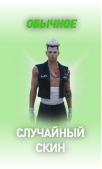
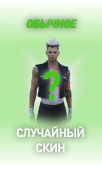
add roulette items generating, edit images

Changed region(s): [[0.3824, 0.3846, 0.6471, 0.5917], [0.9706, 0.0592, 1.0, 0.9467]]

diff --git a/src/main/java/com/liverussia/service/impl/RouletteServiceImpl.java b/src/main/java/com/liverussia/service/impl/RouletteServiceImpl.java
@@ -1,6 +1,16 @@
 package com.liverussia.service.impl;
 
-import com.liverussia.dao.entity.user.User;
+import com.liverussia.dao.entity.roulette.compositeItem.CompositeElementType;
+import com.liverussia.dao.entity.roulette.compositeItem.CompositeItemData;
+import com.liverussia.dao.entity.roulette.compositeItem.CompositeItems;
+import com.liverussia.dao.entity.roulette.item.Category;
+import com.liverussia.dao.entity.roulette.item.RouletteItem;
+import com.liverussia.dao.entity.roulette.item.RouletteItemType;
+import com.liverussia.dao.entity.roulette.rangeItem.RangeItemData;
+import com.liverussia.dao.entity.roulette.singleItem.SingleItemData;
+import com.liverussia.dao.repository.CategoryRepository;
+import com.liverussia.dao.repository.CompositeItemsRepository;
+import com.liverussia.dao.repository.RouletteItemRepository;
 import com.liverussia.domain.JwtUser;
 import com.liverussia.dto.response.PrizeInfoResponseDto;
 import com.liverussia.dto.response.SpinRouletteResponseDto;
@@ -15,9 +25,10 @@ import org.apache.commons.lang3.StringUtils;
 import org.springframework.beans.factory.annotation.Value;
 import org.springframework.stereotype.Service;
 
-import java.util.ArrayList;
-import java.util.List;
-import java.util.Optional;
+import java.math.BigDecimal;
+import java.util.*;
+import java.util.stream.Collectors;
+import java.util.stream.LongStream;
 
 @Service
 @RequiredArgsConstructor
@@ -27,7 +38,15 @@ public class RouletteServiceImpl implements RouletteService {
     private final static String ROULETTE_ITEMS_DIRECTORY = "roulette_items/";
     private final static String PRIZES_INFO_DIRECTORY = "prizes_info/";
 
+    private final static long ZERO = 0L;
+    private final static long ZERO_PROBABILITY = 0L;
+    private final static long ONE_HUNDRED_PERCENT = 100;
+    private final static int COUNT_ITEM_BEFORE_PRIZE = 2;
+
     private final UserService userService;
+    private final RouletteItemRepository rouletteItemRepository;
+    private final CompositeItemsRepository compositeItemsRepository;
+    private final CategoryRepository categoryRepository;
 
     @Value("${android.roulette.spinCost}")
     private Integer spinCost;
@@ -44,16 +63,197 @@ public class RouletteServiceImpl implements RouletteService {
 
     @Override
     public SpinRouletteResponseDto spinRoulette(JwtUser jwtUser) {
+        checkUser(jwtUser);
 
+        List<RouletteItem> rouletteItems = getRouletteItems();
+
+        SpinRouletteResponseDto response = buildRouletteResponseDto(jwtUser);
+        response.setBase64Images(getRouletteItemsImages(rouletteItems));
+        addPrizeToResponseAndSave(response, rouletteItems);
+
+        return response;
+    }
+
+    private void addPrizeToResponseAndSave(SpinRouletteResponseDto response, List<RouletteItem> rouletteItems) {
+        RouletteItem prizeItem = rouletteItems.get(rouletteItems.size() - COUNT_ITEM_BEFORE_PRIZE);
+
+        if (RouletteItemType.SINGLE.equals(prizeItem.getType())) {
+            handleSingleType(response, prizeItem);
+        }
+
+        if (RouletteItemType.RANGE.equals(prizeItem.getType())) {
+            handleRangeType(response, prizeItem);
+        }
+
+        if (RouletteItemType.COMPOSITE.equals(prizeItem.getType())) {
+            handleCompositeType(response, prizeItem);
+        }
+    }
+
+    private void handleCompositeType(SpinRouletteResponseDto response, RouletteItem rouletteItem) {
+        CompositeItemData compositeItemData = rouletteItem.getCompositeItemData();
+        CompositeItems compositeItem = getCompositeItem(compositeItemData);
+
+        String base64PrizeImage = getCompositePrizeImage(compositeItem);
+        PrizeInfoResponseDto prizeInfo = new PrizeInfoResponseDto();
+        prizeInfo.setBase64Image(base64PrizeImage);
+
+//        saveCompositeToDb(compositeItem);
+
+        response.setPrizeInfo(prizeInfo);
+    }
+
+    private String getCompositePrizeImage(CompositeItems compositeItem) {
+        String path = uploadPath.concat(PRIZES_INFO_DIRECTORY);
+
+        return Optional.ofNullable(compositeItem)
+                .map(CompositeItems::getImageFileName)
+                .map(path::concat)
+                .map(Base64Converter::encodeFileToBase64)
+                .orElse(StringUtils.EMPTY);
+    }
+
+    private CompositeItems getCompositeItem(CompositeItemData compositeItemData) {
+        List<CompositeItems> compositeItems = compositeItemsRepository.findAllByType(compositeItemData.getType());
+
+        Random rand = new Random();
+        int index = rand.nextInt(compositeItems.size());
+
+        return compositeItems.get(index);
+    }
+
+    private void handleRangeType(SpinRouletteResponseDto response, RouletteItem rouletteItem) {
+        String base64PrizeImage = getRangePrizeImage(rouletteItem);
+        String rangeRandomValue = getRangeRandomValue(rouletteItem);
+
+        PrizeInfoResponseDto prizeInfo = new PrizeInfoResponseDto();
+        prizeInfo.setBase64Image(base64PrizeImage);
+        prizeInfo.setAdditionalInfo(rangeRandomValue);
+
+        response.setPrizeInfo(prizeInfo);
+
+//        saveToDb(prizeInfo, rangeRandomValue);
+    }
+
+    private String getRangeRandomValue(RouletteItem rouletteItem) {
+        RangeItemData rangeItemData = rouletteItem.getRangeItemData();
+        Long start = rangeItemData.getRangeStart();
+        Long end = rangeItemData.getRangeEnd();
+
+        long value = start + (long) (Math.random() * (end - start));
+
+        return Long.toString(value);
+    }
+
+    private String getRangePrizeImage(RouletteItem rouletteItem) {
+        String path = uploadPath.concat(PRIZES_INFO_DIRECTORY);
+
+        return Optional.ofNullable(rouletteItem)
+                .map(RouletteItem::getRangeItemData)
+                .map(RangeItemData::getPrizeImageFileName)
+                .map(path::concat)
+                .map(Base64Converter::encodeFileToBase64)
+                .orElse(StringUtils.EMPTY);
+    }
+
+    private void handleSingleType(SpinRouletteResponseDto response, RouletteItem rouletteItem) {
+        String base64PrizeImage = getSinglePrizeImage(rouletteItem);
+        PrizeInfoResponseDto prizeInfo = new PrizeInfoResponseDto();
+        prizeInfo.setBase64Image(base64PrizeImage);
+        response.setPrizeInfo(prizeInfo);
+
+//        saveToDb(prizeInfo);
+    }
+
+    private String getSinglePrizeImage(RouletteItem rouletteItem) {
+        String path = uploadPath.concat(PRIZES_INFO_DIRECTORY);
+
+        return Optional.ofNullable(rouletteItem)
+                .map(RouletteItem::getSingleItemData)
+                .map(SingleItemData::getPrizeImageFileName)
+                .map(path::concat)
+                .map(Base64Converter::encodeFileToBase64)
+                .orElse(StringUtils.EMPTY);
+    }
+
+    private List<String> getRouletteItemsImages(List<RouletteItem> rouletteItems) {
+        String path = uploadPath.concat(ROULETTE_ITEMS_DIRECTORY);
+
+        return Optional.ofNullable(rouletteItems)
+                .orElse(Collections.emptyList())
+                .stream()
+                .map(RouletteItem::getImageFileName)
+                .map(path::concat)
+                .map(Base64Converter::encodeFileToBase64)
+                .collect(Collectors.toList());
+    }
+
+    private List<RouletteItem> getRouletteItems() {
+
+        List<RouletteItem> rouletteItems = new ArrayList<>();
+
+        List<Category> categories = categoryRepository.findAll();
+
+        Optional.of(categories)
+                .orElse(Collections.emptyList())
+                .forEach(category -> addItemsByCategory(category, rouletteItems));
+
+//        Optional.of(existRouletteItems)
+//                .orElse(Collections.emptyList())
+//                .forEach(item -> addNeedCountsItems(rouletteItems, item));
+
+        Collections.shuffle(rouletteItems);
+        Collections.shuffle(rouletteItems);
+
+        return rouletteItems;
+
+    }
+
+    private void addItemsByCategory(Category category, List<RouletteItem> rouletteItems) {
+        List<RouletteItem> rouletteItemsByCategory = rouletteItemRepository.findAllByCategoryId(category.getId());
+        long residualCount = getItemCount(category);
+
+        for (int i = 0; i < rouletteItemsByCategory.size(); i++) {
+            if (residualCount == 0L) {
+                break;
+            }
+
+            long value;
+
+            if (i == rouletteItemsByCategory.size() - 1) {
+                value = residualCount;
+            } else {
+                value = (long) (Math.random() * residualCount);
+            }
+
+            residualCount -= value;
+
+            addNeedCountsItems(rouletteItems, rouletteItemsByCategory.get(i), value);
+        }
+    }
+
+    private void addNeedCountsItems(List<RouletteItem> rouletteItems, RouletteItem item, long itemCount) {
+        LongStream.range(ZERO, itemCount)
+                .forEach(index -> rouletteItems.add(item));
+    }
+
+    private long getItemCount(Category category) {
+        long probability = getProbability(category);
+        return countElementsInOneSpin / ONE_HUNDRED_PERCENT * probability;
+    }
+
+    private long getProbability(Category category) {
+        return Optional.ofNullable(category)
+                .map(Category::getPercentProbability)
+                .orElse(ZERO_PROBABILITY);
+    }
+
+    private void checkUser(JwtUser jwtUser) {
         Optional.ofNullable(jwtUser)
                 .orElseThrow(() -> new ApiException(ErrorContainer.AUTHENTICATION_ERROR));
 
         UserInfoDto user = userService.getUserInfo(jwtUser);
         checkUserBalance(user);
-
-        //choose prize and build request logic
-
-        return buildRouletteResponseDto(jwtUser);
     }
 
     private void checkUserBalance(UserInfoDto user) {
@@ -74,28 +274,10 @@ public class RouletteServiceImpl implements RouletteService {
         responseDto.setCountElementsInOneSpin(countElementsInOneSpin.toString());
         responseDto.setSpinDurationInMillis(spinDurationInMillis.toString());
 
-        responseDto.setBase64Images(buildRouletteBase64Images());
-        responseDto.setPrizeInfo(buildPrizeInfo());
-
         int currentBalance = Integer.parseInt(user.getBalance()) - spinCost;
         responseDto.setBalance(Integer.toString(currentBalance));
 
         return responseDto;
-    }
-
-    private List<String> buildRouletteBase64Images() {
-
-        List<String> base64Images = new ArrayList<>();
-        String path = uploadPath.concat(ROULETTE_ITEMS_DIRECTORY);
-
-        for (int i = 0; i < countElementsInOneSpin/2; i++) {
-            String base64Image1 = Base64Converter.encodeFileToBase64(path.concat("experience.png"));
-            base64Images.add(base64Image1);
-            String base64Image2 = Base64Converter.encodeFileToBase64(path.concat("bmw_m5.png"));
-            base64Images.add(base64Image2);
-        }
-
-        return base64Images;
     }
 
     private PrizeInfoResponseDto buildPrizeInfo() {

diff --git a/src/main/java/com/liverussia/dao/repository/RouletteItemRepository.java b/src/main/java/com/liverussia/dao/repository/RouletteItemRepository.java
@@ -1,9 +1,12 @@
-//package com.liverussia.dao.repository;
-//
-////TODO когда буду писать UI под настройку рулетки
-//
-//import com.liverussia.dao.entity.roulette.item.RouletteItem;
-//import org.springframework.data.jpa.repository.JpaRepository;
-//
-//public interface RouletteItemRepository extends JpaRepository<RouletteItem, String> {
-//}
+package com.liverussia.dao.repository;
+
+import com.liverussia.dao.entity.roulette.item.Category;
+import com.liverussia.dao.entity.roulette.item.CategoryName;
+import com.liverussia.dao.entity.roulette.item.RouletteItem;
+import org.springframework.data.jpa.repository.JpaRepository;
+
+import java.util.List;
+
+public interface RouletteItemRepository extends JpaRepository<RouletteItem, Long> {
+    List<RouletteItem> findAllByCategoryId(Long id);
+}

diff --git a/src/main/java/com/liverussia/config/RouletteConfiguration.java b/src/main/java/com/liverussia/config/RouletteConfiguration.java
@@ -28,7 +28,9 @@ public class RouletteConfiguration {
                 new PossiblePrizeInfo("removing_one_warning.png", 14),
                 new PossiblePrizeInfo("lamborghini_huracan.png", 15),
                 new PossiblePrizeInfo("mercedes_benz_gt_63_s.png", 16),
-                new PossiblePrizeInfo("random_mask.png", 17)
+                new PossiblePrizeInfo("random_mask.png", 17),
+                new PossiblePrizeInfo("platinum_vip.png", 18),
+                new PossiblePrizeInfo("random_cap.png", 19)
         );
     }
 }

diff --git a/src/main/java/com/liverussia/dao/repository/CompositeItemsRepository.java b/src/main/java/com/liverussia/dao/repository/CompositeItemsRepository.java
@@ -1,0 +1,11 @@
+package com.liverussia.dao.repository;
+
+import com.liverussia.dao.entity.roulette.compositeItem.CompositeElementType;
+import com.liverussia.dao.entity.roulette.compositeItem.CompositeItems;
+import org.springframework.data.jpa.repository.JpaRepository;
+
+import java.util.List;
+
+public interface CompositeItemsRepository extends JpaRepository<CompositeItems, Long> {
+    List<CompositeItems> findAllByType(CompositeElementType type);
+}

diff --git a/src/main/java/com/liverussia/dao/repository/CategoryRepository.java b/src/main/java/com/liverussia/dao/repository/CategoryRepository.java
@@ -1,0 +1,7 @@
+package com.liverussia.dao.repository;
+
+import com.liverussia.dao.entity.roulette.item.Category;
+import org.springframework.data.jpa.repository.JpaRepository;
+
+public interface CategoryRepository extends JpaRepository<Category, Long> {
+}

diff --git a/Readme.md b/Readme.md
@@ -1,5 +1,4 @@
 **Исправить**
-1) Цвет итемов рулетки vip - редкое silver - среднее
 
 **Проверить/затестить**
 1) Нормально ли работает многопоточка с сетингом соли в PasswordEncoder (многопоточка)
